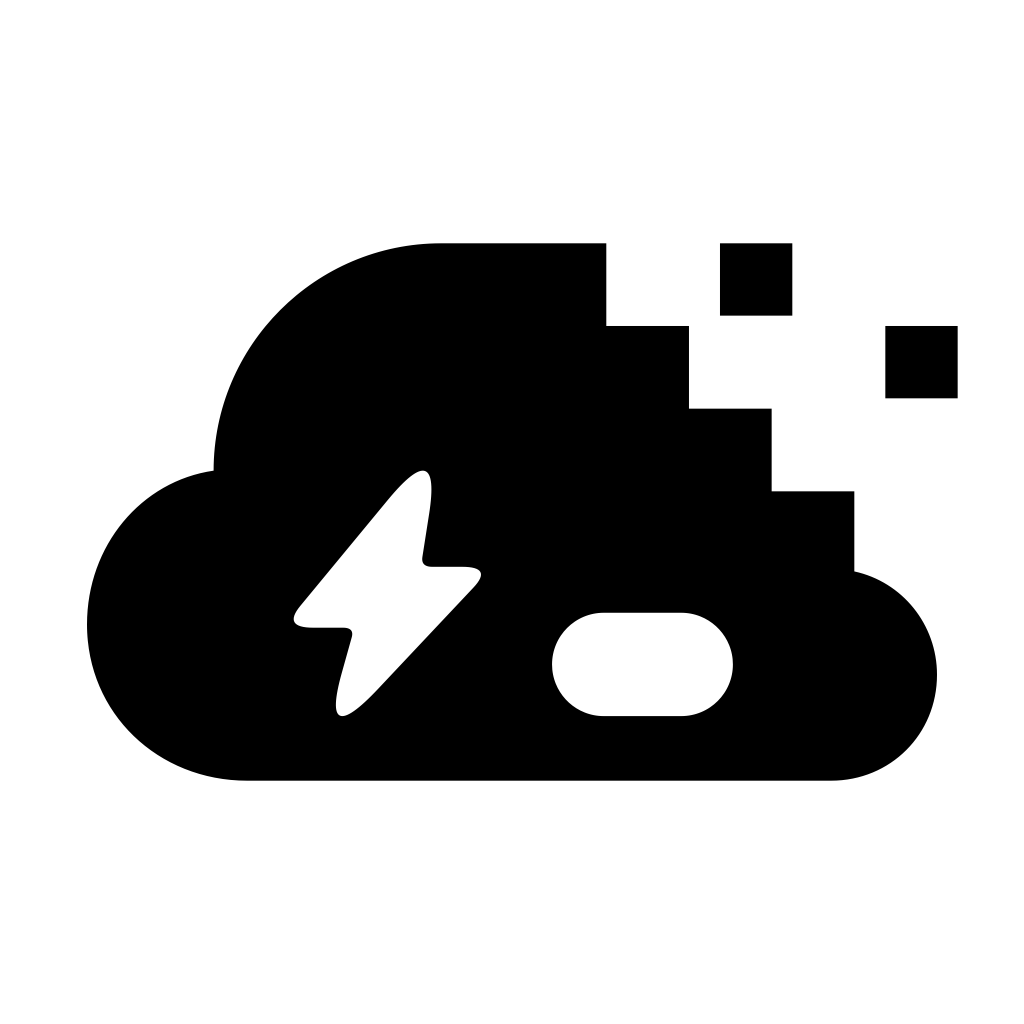
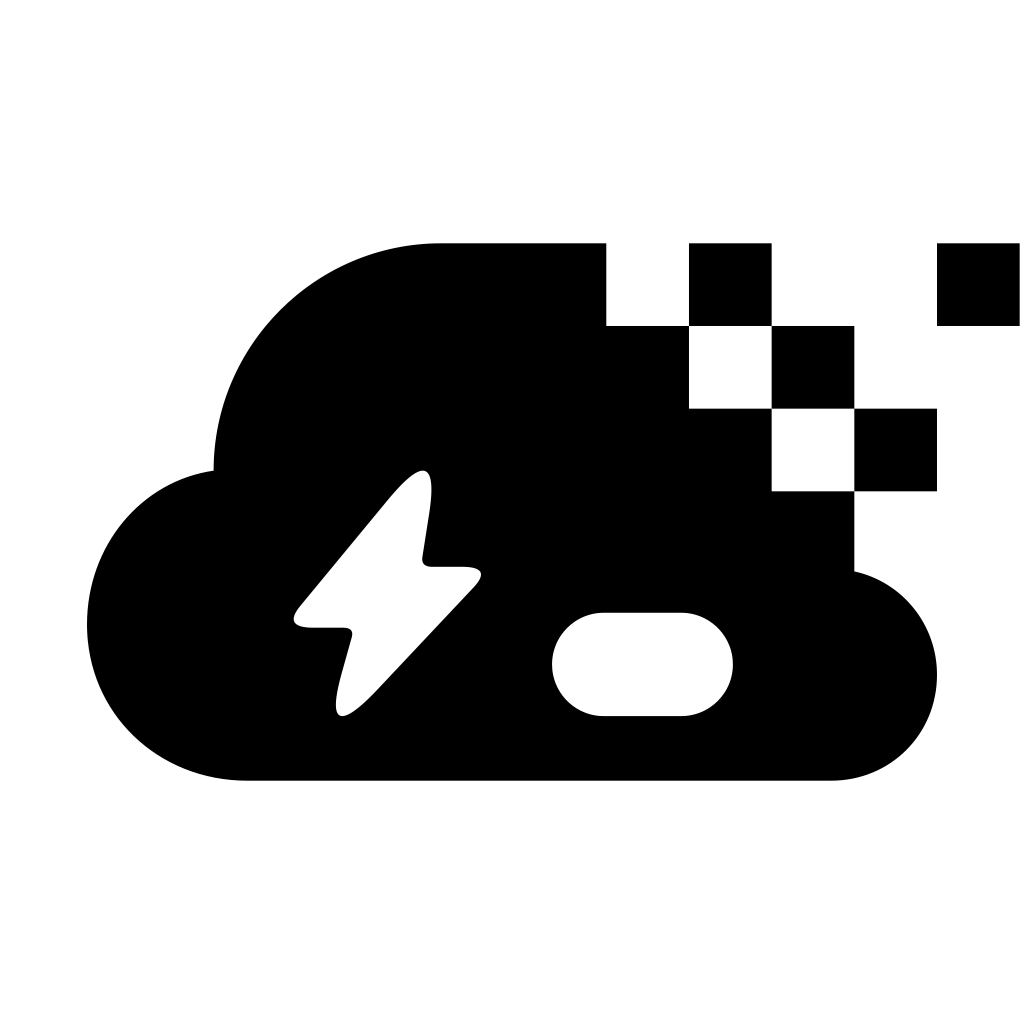
Match menu bar pixel layout and load native-size templates

Changed region(s): [[0.6562, 0.2188, 1.0, 0.5]]

diff --git a/scripts/assets/build_liquid_glass_icons.swift b/scripts/assets/build_liquid_glass_icons.swift
@@ -164,13 +164,12 @@ for (index,name) in names.enumerated() {
         }
         menuShapes=[menuFrame,menuBolt,menuCursor]
     } else if index==0 {
-        // Menu bar completes the cloud shoulder with attached pixels plus two readable detached tiles.
+        // Use the same 15 cells as Dock. Only paint and small-size glyph fit differ.
         let b=bolt.boundingBoxOfPath
         var fit=CGAffineTransform(translationX:330,y:460).scaledBy(x:145/b.width,y:190/b.height).translatedBy(x:-b.minX,y:-b.minY)
         let menuBolt=bolt.copy(using:&fit)!
         let menuCursor=CGPath(roundedRect:CGRect(x:530,y:570,width:140,height:80),cornerWidth:40,cornerHeight:40,transform:nil)
-        let attached=[CGRect(x:508,y:284,width:64,height:64),CGRect(x:572,y:348,width:64,height:64),CGRect(x:636,y:412,width:64,height:64),CGRect(x:700,y:476,width:64,height:64)].reduce(rounded) { $0.union(CGPath(rect:$1,transform:nil)) }
-        menuShapes=[attached.subtracting(menuBolt).subtracting(menuCursor),CGPath(rect:CGRect(x:660,y:284,width:56,height:56),transform:nil),CGPath(rect:CGRect(x:788,y:348,width:56,height:56),transform:nil)]
+        menuShapes=[pixels.reduce(rounded) { $0.union($1) }.subtracting(menuBolt).subtracting(menuCursor)]
 
     } else {
         var fit=CGAffineTransform(translationX:markBounds.midX,y:markBounds.midY)
@@ -189,6 +188,22 @@ for (index,name) in names.enumerated() {
     for shape in menuShapes {context.addPath(shape);context.fillPath()}
     NSGraphicsContext.restoreGraphicsState()
     try rep.representation(using:.png,properties:[:])!.write(to:directory.appendingPathComponent("StatusBarIcon.png"))
+    // Export menu-sized representations directly instead of resampling the
+    // 1024px image at runtime. No detached cell is omitted or repositioned.
+    for edge in [22,44] {
+        let small=NSBitmapImageRep(bitmapDataPlanes:nil,pixelsWide:edge,pixelsHigh:edge,bitsPerSample:8,samplesPerPixel:4,hasAlpha:true,isPlanar:false,colorSpaceName:.deviceRGB,bytesPerRow:0,bitsPerPixel:0)!
+        NSGraphicsContext.saveGraphicsState();NSGraphicsContext.current=NSGraphicsContext(bitmapImageRep:small)
+        let c=NSGraphicsContext.current!.cgContext
+        let factor=CGFloat(edge)/1024,fitScale=scale*factor
+        c.saveGState();c.translateBy(x:CGFloat(edge)/2,y:CGFloat(edge)/2)
+        c.scaleBy(x:fitScale,y:-fitScale);c.translateBy(x:-bounds.midX,y:-bounds.midY)
+        c.setFillColor(NSColor.black.cgColor)
+        for shape in menuShapes { c.addPath(shape);c.fillPath() }
+        c.restoreGState()
+        NSGraphicsContext.restoreGraphicsState()
+        small.size=NSSize(width:22,height:22)
+        try small.representation(using:.png,properties:[:])!.write(to:directory.appendingPathComponent(edge==22 ? "StatusBarIcon-22.png" : "StatusBarIcon-22@2x.png"))
+    }
     print(name)
 }
 

diff --git a/apps/decodex-gpui/menubar/Sources/DecodexApp/DecodexApp.swift b/apps/decodex-gpui/menubar/Sources/DecodexApp/DecodexApp.swift
@@ -71,6 +71,19 @@ enum AppAssets {
 			?? NSImage(named: "StatusBarIcon")
 			?? NSImage(systemSymbolName: "person.2.circle", accessibilityDescription: "Decodex")
 			?? NSImage()
+        // Prefer device-sized templates so small detached pixels stay opaque.
+        let representations = ["StatusBarIcon-22", "StatusBarIcon-22@2x"].compactMap { name in
+            Bundle.main.url(forResource: name, withExtension: "png")
+                .flatMap { try? Data(contentsOf: $0) }
+                .flatMap(NSBitmapImageRep.init(data:))
+        }
+        if representations.count == 2 {
+            for representation in image.representations { image.removeRepresentation(representation) }
+            for representation in representations {
+                representation.size = NSSize(width: 22, height: 22)
+                image.addRepresentation(representation)
+            }
+        }
 		image.isTemplate = true
 		image.size = NSSize(width: 22, height: 22)
 		return image

diff --git a/scripts/assets/check_menu_icon_legibility.swift b/scripts/assets/check_menu_icon_legibility.swift
@@ -26,7 +26,7 @@ for size in [22,44] { for phaseX:CGFloat in [0,0.5] { for phaseY:CGFloat in [0,0
    }
    counts.append(queue.count)
   }}
-  let valid = holes ? counts.count==3 : (pixels ? counts.count>=2 && counts.count<=3 : counts.count==(cutout ? 1 : 3))
+  let valid = holes ? (pixels ? counts.count>=3 && counts.count<=8 : counts.count==3) : (pixels ? counts.count>=1 && counts.count<=4 : counts.count==(cutout ? 1 : 3))
   if !valid {
    FileHandle.standardError.write(Data("Menu icon joins or fragments at \(size)px, offset (\(phaseX), \(phaseY)), alpha \(threshold): \(counts)\n".utf8))
    exit(1)

diff --git a/scripts/macos/prepare_decodex_icon_trials.py b/scripts/macos/prepare_decodex_icon_trials.py
@@ -45,6 +45,8 @@ def main():
         resources = app / "Contents/Resources"
         run(ROOT / "scripts/macos/compile_decodex_app_icon.sh", resources, source / "AppIcon.icon")
         shutil.copy2(source / "StatusBarIcon.png", resources / "StatusBarIcon.png")
+        for filename in ["StatusBarIcon-22.png", "StatusBarIcon-22@2x.png"]:
+            shutil.copy2(source / filename, resources / filename)
         info = app / "Contents/Info.plist"
         metadata = plistlib.loads(info.read_bytes())
         metadata["CFBundleIconName"] = "AppIcon"

diff --git a/assets/app-icon/liquid-glass/README.md b/assets/app-icon/liquid-glass/README.md
@@ -18,9 +18,11 @@ left mass, a clean base, and a 64-point grid. Fifteen squares overlap the should
 and disperse outward. Each has a different fill based on its position in the
 transition. Default fades from cyan to pale blue; Dark and Mono have matching
 material-specific variations. Squares share one material group without individual
-cast shadows, so the transition stays continuous. The menu template includes four
-attached squares and two detached pixels. Its raster check verifies that both
-cutout holes remain independent and at least one detached pixel stays visible.
+cast shadows, so the transition stays continuous. The menu template uses the same 15 cells without omitting or moving any. Cells
+that touch the cloud merge naturally in monochrome. Dedicated 22px and 44px
+representations are loaded by the app; no light-gray material is baked into them.
+Pixel-grid gaps can form extra background components, which the raster check
+allows in addition to the two glyph holes.
 
 The open cloud has a 72-point frame. Its right cap is aligned to the normal of the
 frame's circular arc, so the cap and frame meet tangentially. The lightning and

diff --git a/assets/app-icon/source/app-icon-design.md b/assets/app-icon/source/app-icon-design.md
@@ -3,8 +3,9 @@
 The default is the pixel-dissolving cloud cutout Liquid Glass design
 (`01-mercury-cloud`). Both Dock and menu bar use this reference-led cloud with lightning
 and cursor cutouts. Dock adds 15 square layers on a shared grid, with dense overlays at the cloud
-edge and sparse pale pixels beyond it. The menu bar includes four attached tiles
-and two detached pixels; its cutouts have a small-size optical fit.
+edge and sparse pale pixels beyond it. The menu bar uses the same 15-cell grid as a solid system template; its cutouts
+have a small-size optical fit. Dedicated 22px and 44px representations avoid
+repeated downsampling of tiny pixels.
 `assets/app-icon/default-variant` selects the production icon. All three approved
 candidates remain in `assets/app-icon/liquid-glass` for comparison and editing.
 
